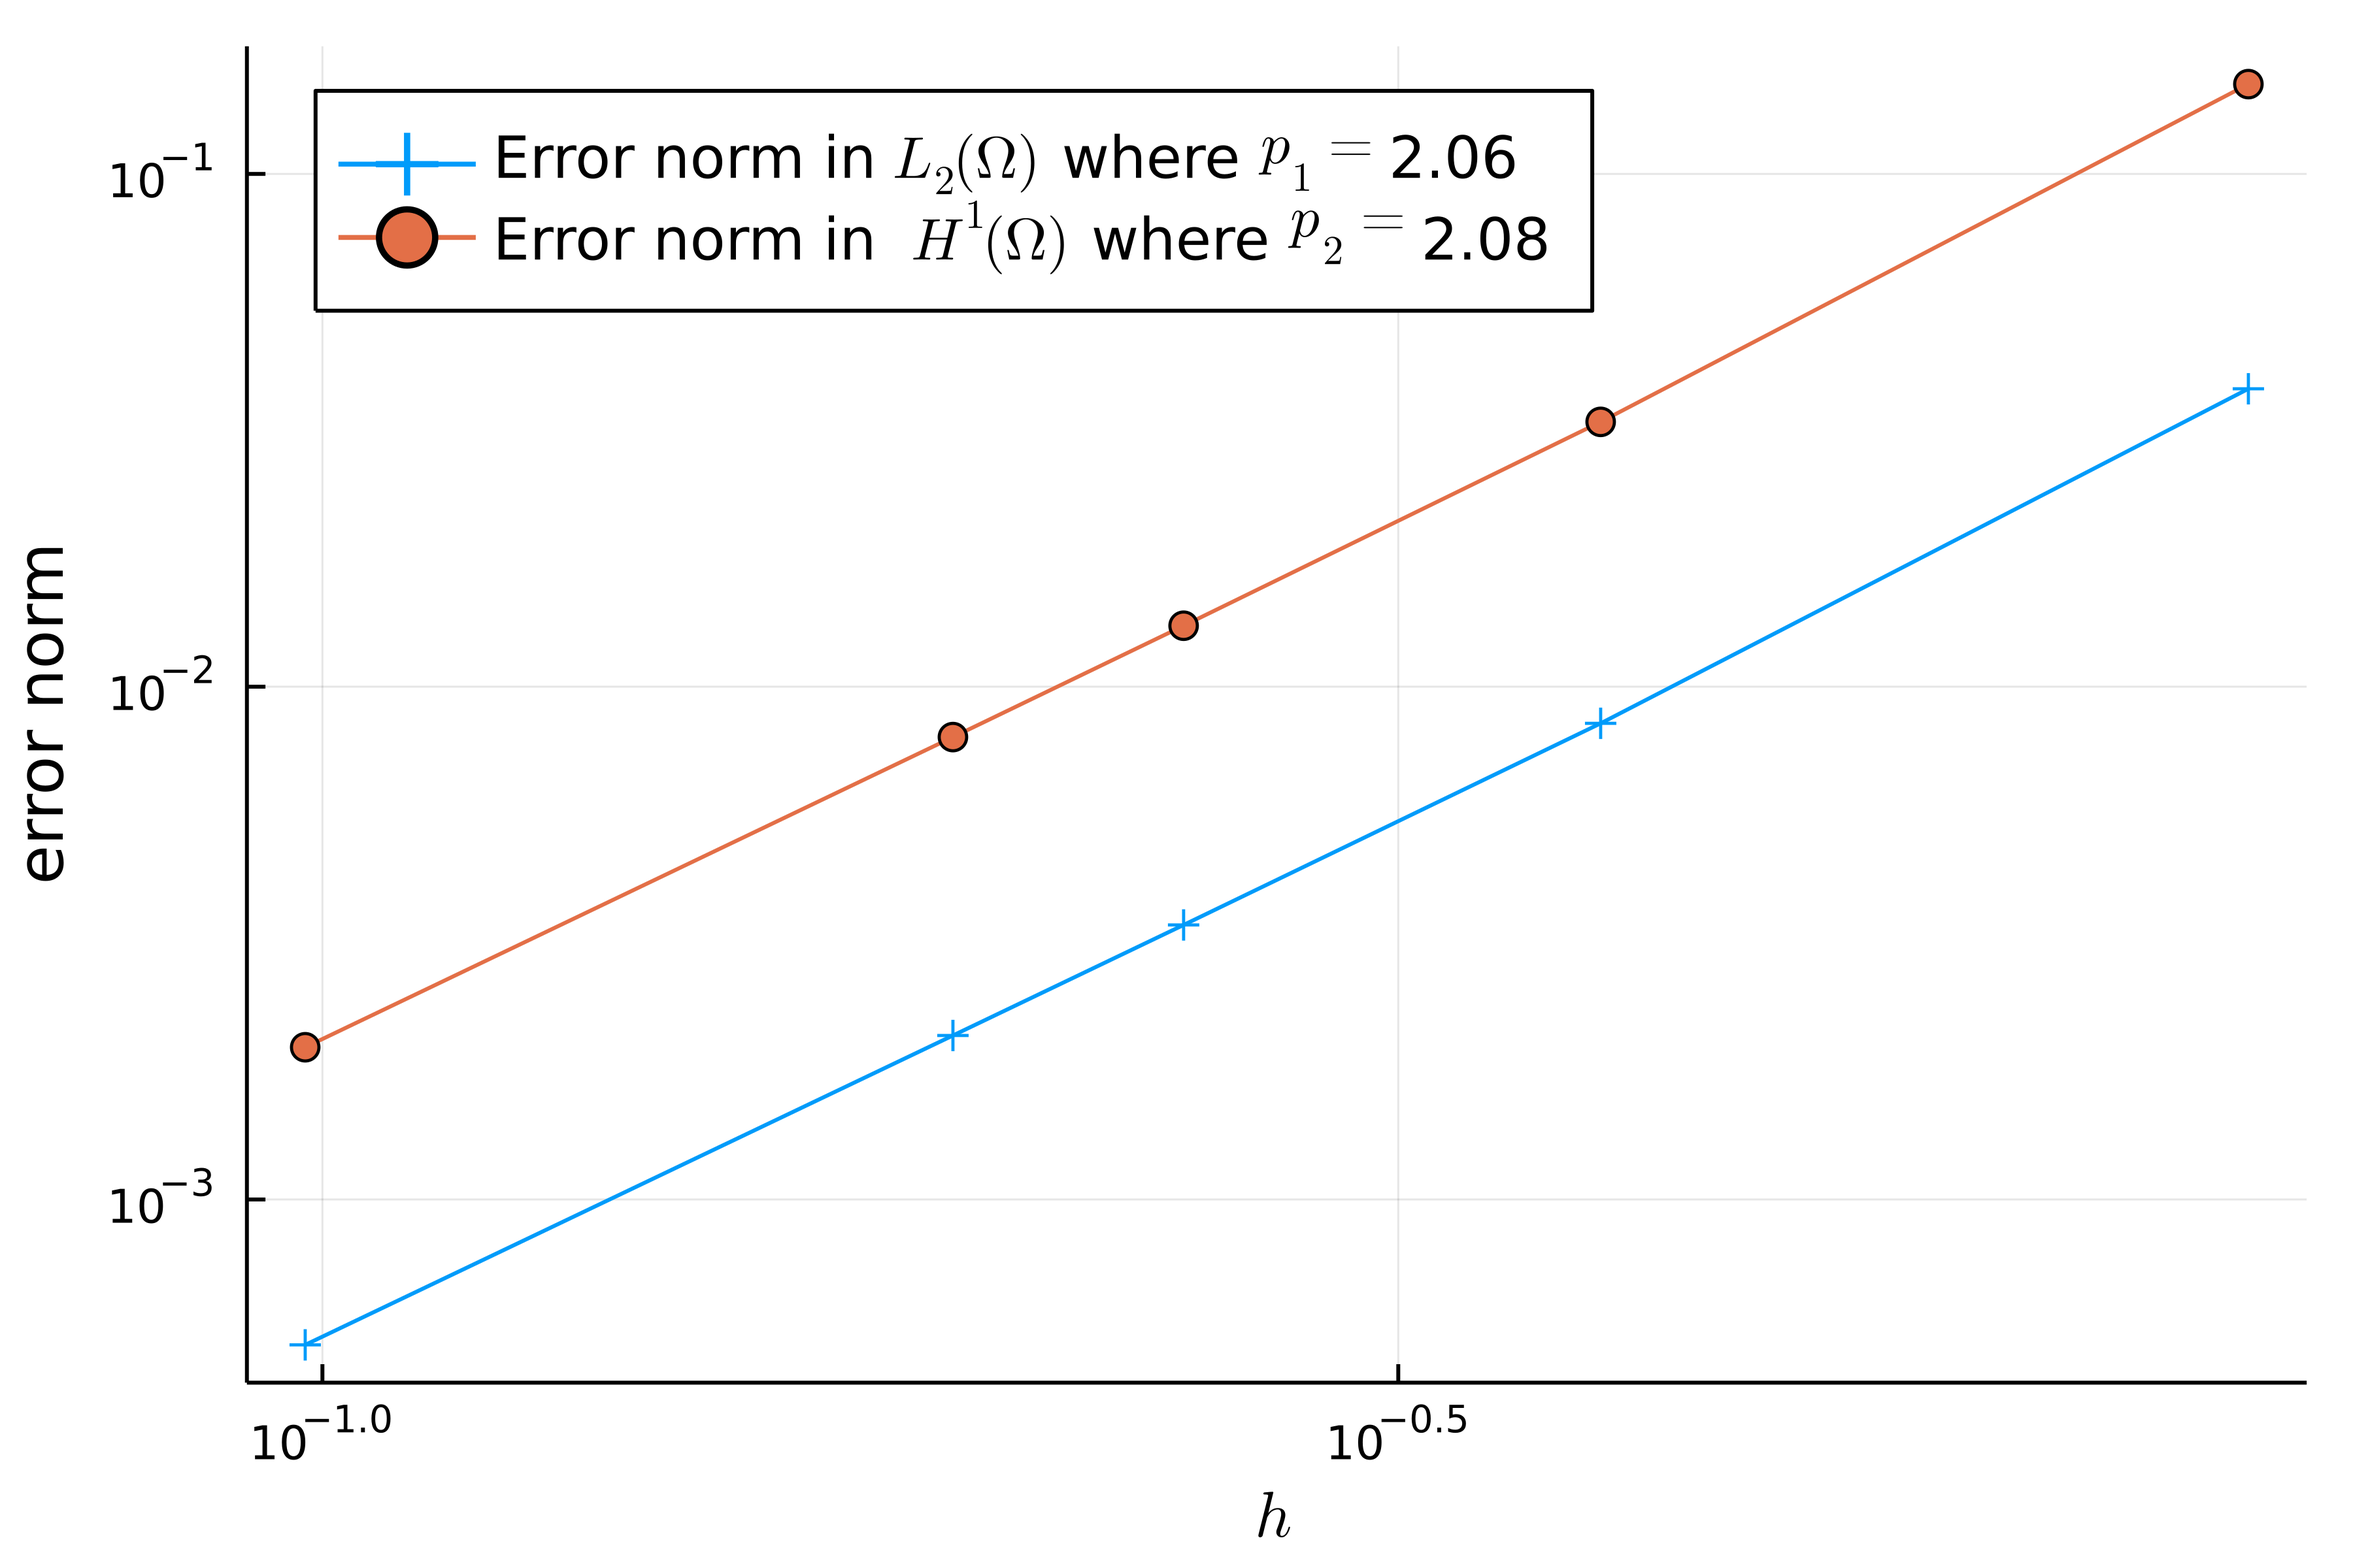
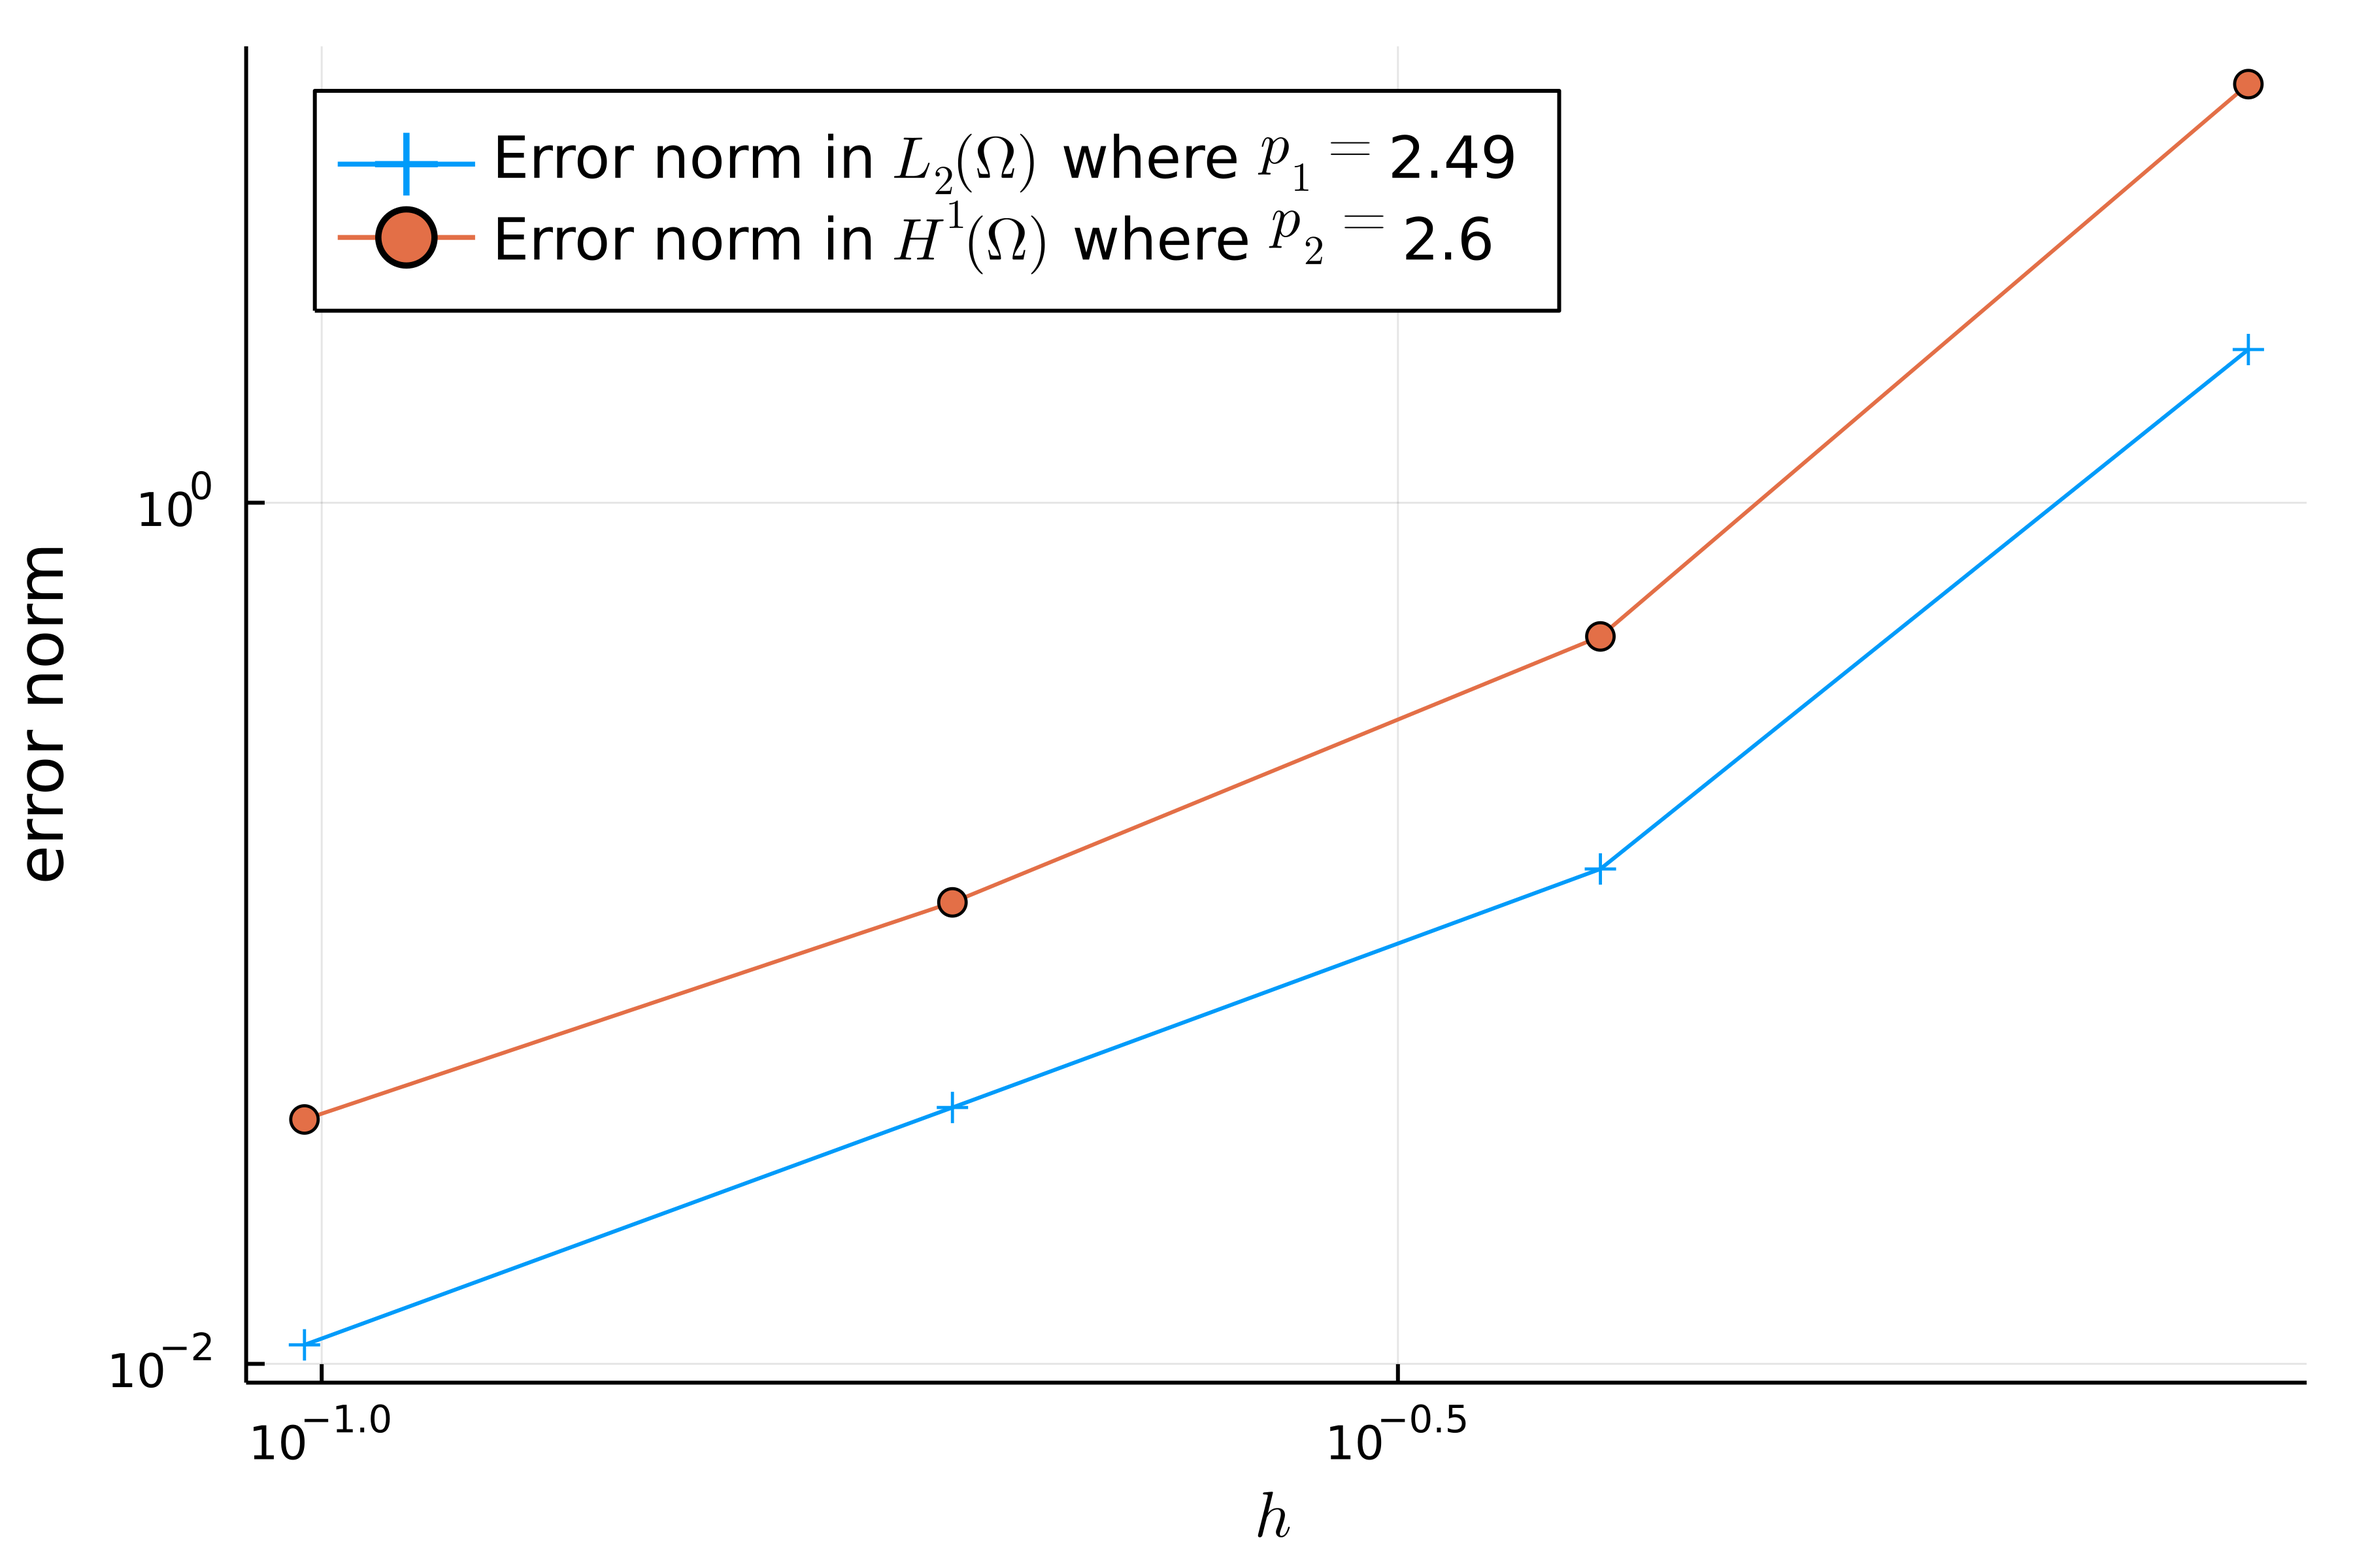
Added new texfile for numerical results

diff --git a/latex/numerical_results.tex b/latex/numerical_results.tex
@@ -1,0 +1,97 @@
+
+
+% Hey
+\newpage
+\section{Numerical Results}%
+\label{sec:numerical_results}
+
+We want to apply the well known method of manufactured solution to solve this problem.
+Let us consider the manufactured solution
+\begin{equation}
+    \label{eq:man_sol}
+u\left( x \right) = \cos(x_{1}) \cos \left( x_{2} \right) \quad \text{ on }   \Omega =  \left( 0,2 \pi  \right)^{2}
+.\end{equation}
+A visualization of \eqref{eq:man_sol} can be seen on figure \ref{fig:man_sol}.
+\begin{figure}[htpb]
+    \centering
+    \includegraphics[width=1.1\textwidth]{figures/manufactured_solution.png}
+    \caption{ A illustration of the manufactured solution \eqref{eq:man_sol} on $\Omega = (0, 2 \pi ) ^2$  }
+    \label{fig:man_sol}
+\end{figure}
+For all experiments carried out will we define $\alpha  = 1 $. We also choose the penalty parameter $ \gamma = 1$, even though the only requirement according to the results in subsection \ref{ssub:coercitivity} is that $\gamma \ge  \frac{1}{2}$. The
+numerical experiments was done on the mesh discretization illustrated in figure \ref{fig:mesh_discretization}.
+The FEM software package used in the implementation was gridap written in the Julia programming language \cite{verdugo22, julia17}.
+On the numerical experiments shown on figures \ref{fig:man_conv},  the error norms is shown numerically that there exists a $C > 0$ such
+that
+
+On the numerical experiments shown on figures \ref{fig:man_conv},  the error norms is shown numerically that there exists a $C > 0$ such
+that
+\[
+ \| u - u_{h} \|_{ L_{2}\left( \Omega  \right)  }^{  } \le  C  h^{p_{1}} \text{ and } \| u - h_{h} \|_{ H^{1}\left( \Omega  \right)  }  \le  C h^{p_{2}}.
+\]
+ We could see that for Lagrangian elements with $\mathcal{P}_{k} $ for $k = 2,3$ did the algorithm converge with $p_{1}, p_{2} \approx 2$ and for $k = 4$ was $p_{1} , p_{2} \approx 4$, which was expected.
+
+
+\begin{figure}
+\begin{minipage}{.4\linewidth}
+\centering
+\subfloat[]{\label{fig:mesh_discretization:a}\includegraphics[scale=.15]{figures/refinements/n10.png}}
+\end{minipage}%
+\begin{minipage}{.4\linewidth}
+\centering
+\subfloat[]{\label{fig:mesh_discretization:b}\includegraphics[scale=.15]{figures/refinements/n20.png}}
+\end{minipage}\par\medskip
+\centering
+\subfloat[]{\label{fig:mesh_discretization:c}\includegraphics[scale=.15]{figures/refinements/n40.png}}
+
+\caption{Illustration of mesh discretization on the unit square $\Omega = (0,2 \pi)^{2} \subseteq  \mathbb{R} ^{2}$
+    with triangulation $\mathcal{T} _{h}$. The chosen instances had the diameters $h = \left\{ 2\pi  /10, 2\pi /20,2\pi /40 \right\}$ in figures \ref{fig:mesh_discretization:a},
+    \ref{fig:mesh_discretization:b} and \ref{fig:mesh_discretization:c}.
+}
+
+\label{fig:mesh_discretization}
+\end{figure}
+
+
+\begin{figure}
+    \centering
+\begin{minipage}{.5\linewidth}
+\centering
+\subfloat[]{\label{fig:man_conv:a}\includegraphics[scale=.05]{figures/convergence/convergence_d_2.png}}
+\end{minipage}%
+\begin{minipage}{.5\linewidth}
+\centering
+\subfloat[]{\label{fig:man_conv:b}\includegraphics[scale=.05]{figures/convergence/convergence_d_3.png}}
+\end{minipage}\par\medskip
+\centering
+\subfloat[]{\label{fig:man_conv:c}\includegraphics[scale=.05]{figures/convergence/convergence_d_4.png}}
+
+
+\caption{ Convergence plots for $\| u - u_{h} \|_{ L_{2}\left( \Omega  \right)  }^{  } \le Ch^{p_{1}} $ and $\| u - u_{h} \|_{ H^{1}\left( \Omega  \right)   }^{  }\le Ch^{p_{2}} $  using Lagrangian elements with polynomials $\mathcal{P}_{k} $ with
+    order $k$ .
+    Figures \ref{fig:man_conv:a},
+\ref{fig:man_conv:b} and \ref{fig:man_conv:c} has respectively the order $k=2,3, 4$.  }
+\label{fig:man_conv}
+\end{figure}
+
+
+% \begin{figure}
+% \begin{center}
+% \begin{tabular}{|c|c|}
+% \toprule
+
+% \textbf{A} & \adjustimage{height=8cm,valign=m}{PlotA} \\
+% \midrule
+% \textbf{B} & \adjustimage{height=8cm,valign=m}{PlotB} \\
+% \midrule
+% \textbf{C} & \adjustimage{height=8cm,valign=m}{PlotC} \\
+
+% \bottomrule
+% \end{tabular}
+% \end{center}
+% \caption{I don't want a table: Andrew Cashner's way} \label{faketable:mul}
+
+% \end{figure}
+
+\input{figures/convergence/convergence_d_2.tex}
+

diff --git a/latex/CIP.tex b/latex/CIP.tex
@@ -435,78 +435,4 @@ Observe that we now have $ \| u_{h} - v_{h} \|_{ a_{h} }^{  }   \le \frac{\widet
 \]
 
 
-\newpage
-\section{Numerical Results}%
-\label{sec:numerical_results}
-
-We want to apply the well known method of manufactured solution to solve this problem.
-Let us consider the manufactured solution
-\begin{equation}
-    \label{eq:man_sol}
-u\left( x \right) = \cos(x_{1}) \cos \left( x_{2} \right) \quad \text{ on }   \Omega =  \left( 0,2 \pi  \right)^{2}
-.\end{equation}
-A visualization of \eqref{eq:man_sol} can be seen on figure \ref{fig:man_sol}.
-\begin{figure}[htpb]
-    \centering
-    \includegraphics[width=1.1\textwidth]{figures/manufactured_solution.png}
-    \caption{ A illustration of the manufactured solution \eqref{eq:man_sol} on $\Omega = (0, 2 \pi ) ^2$  }
-    \label{fig:man_sol}
-\end{figure}
-For all experiments carried out will we define $\alpha  = 1 $. We also choose the penalty parameter $ \gamma = 1$, even though the only requirement according to the results in subsection \ref{ssub:coercitivity} is that $\gamma \ge  \frac{1}{2}$. The
-numerical experiments was done on the mesh discretization illustrated in figure \ref{fig:mesh_discretization}.
-The FEM software package used in the implementation was gridap written in the Julia programming language \cite{verdugo22, julia17}.
-On the numerical experiments shown on figures \ref{fig:man_conv},  the error norms is shown numerically that there exists a $C > 0$ such
-that
-
-On the numerical experiments shown on figures \ref{fig:man_conv},  the error norms is shown numerically that there exists a $C > 0$ such
-that
-\[
- \| u - u_{h} \|_{ L_{2}\left( \Omega  \right)  }^{  } \le  C  h^{p_{1}} \text{ and } \| u - h_{h} \|_{ H^{1}\left( \Omega  \right)  }  \le  C h^{p_{2}}.
-\]
- We could see that for Lagrangian elements with $\mathcal{P}_{k} $ for $k = 2,3$ did the algorithm converge with $p_{1}, p_{2} \approx 2$ and for $k = 4$ was $p_{1} , p_{2} \approx 4$, which was expected.
-
-
-\begin{figure}
-\begin{minipage}{.4\linewidth}
-\centering
-\subfloat[]{\label{fig:mesh_discretization:a}\includegraphics[scale=.15]{figures/refinements/n10.png}}
-\end{minipage}%
-\begin{minipage}{.4\linewidth}
-\centering
-\subfloat[]{\label{fig:mesh_discretization:b}\includegraphics[scale=.15]{figures/refinements/n20.png}}
-\end{minipage}\par\medskip
-\centering
-\subfloat[]{\label{fig:mesh_discretization:c}\includegraphics[scale=.15]{figures/refinements/n40.png}}
-
-\caption{Illustration of mesh discretization on the unit square $\Omega = (0,2 \pi)^{2} \subseteq  \mathbb{R} ^{2}$
-    with triangulation $\mathcal{T} _{h}$. The chosen instances had the diameters $h = \left\{ 2\pi  /10, 2\pi /20,2\pi /40 \right\}$ in figures \ref{fig:mesh_discretization:a},
-    \ref{fig:mesh_discretization:b} and \ref{fig:mesh_discretization:c}.
-}
-
-\label{fig:mesh_discretization}
-\end{figure}
-
-
-\begin{figure}
-    \centering
-\begin{minipage}{.5\linewidth}
-\centering
-\subfloat[]{\label{fig:man_conv:a}\includegraphics[scale=.05]{figures/convergence/convergence_d_2.png}}
-\end{minipage}%
-\begin{minipage}{.5\linewidth}
-\centering
-\subfloat[]{\label{fig:man_conv:b}\includegraphics[scale=.05]{figures/convergence/convergence_d_3.png}}
-\end{minipage}\par\medskip
-\centering
-\subfloat[]{\label{fig:man_conv:c}\includegraphics[scale=.05]{figures/convergence/convergence_d_4.png}}
-
-
-\caption{ Convergence plots for $\| u - u_{h} \|_{ L_{2}\left( \Omega  \right)  }^{  } \le Ch^{p_{1}} $ and $\| u - u_{h} \|_{ H^{1}\left( \Omega  \right)   }^{  }\le Ch^{p_{2}} $  using Lagrangian elements with polynomials $\mathcal{P}_{k} $ with
-    order $k$ .
-    Figures \ref{fig:man_conv:a},
-\ref{fig:man_conv:b} and \ref{fig:man_conv:c} has respectively the order $k=2,3, 4$.  }
-\label{fig:man_conv}
-\end{figure}
-
-
 

diff --git a/latex/figures/convergence/convergence_d_2.tex b/latex/figures/convergence/convergence_d_2.tex
@@ -1,0 +1,10 @@
+\begin{table}
+  \begin{tabular}{rrrrr}
+    \hline\hline
+    \textbf{h} & \textbf{$L_2$} & \textbf{$H^1$} & \textbf{$log_2(e^{2h}_{L^2(\Omega )}/e^{h}_{L^2(\Omega )}) $} & \textbf{$log_2(e^{2h}_{H_1(\Omega )}/e^{h}_{H_1(\Omega )}) $} \\\hline
+    7.854E-01 & 9.380E+00 & 2.269E+00 &  &  \\
+    3.927E-01 & 4.891E-01 & 1.410E-01 & -2.954E+00 & -2.778E+00 \\
+    1.963E-01 & 1.180E-01 & 3.939E-02 & -1.422E+00 & -1.276E+00 \\
+    9.817E-02 & 3.695E-02 & 1.107E-02 & -1.161E+00 & -1.269E+00 \\\hline\hline
+  \end{tabular}
+\end{table}

diff --git a/latex/figures/convergence/convergence_d_3.tex b/latex/figures/convergence/convergence_d_3.tex
@@ -1,0 +1,10 @@
+\begin{table}
+  \begin{tabular}{rrrrr}
+    \hline\hline
+    \textbf{h} & \textbf{$L_2$} & \textbf{$H^1$} & \textbf{$log_2(e^{2h}_{L^2(\Omega )}/e^{h}_{L^2(\Omega )}) $} & \textbf{$log_2(e^{2h}_{H_1(\Omega )}/e^{h}_{H_1(\Omega )}) $} \\\hline
+    7.854E-01 & 1.853E+00 & 4.026E-01 &  &  \\
+    3.927E-01 & 4.209E-01 & 8.242E-02 & -1.482E+00 & -1.586E+00 \\
+    1.963E-01 & 5.885E-02 & 1.005E-02 & -1.967E+00 & -2.104E+00 \\
+    9.817E-02 & 1.287E-02 & 1.493E-03 & -1.520E+00 & -1.907E+00 \\\hline\hline
+  \end{tabular}
+\end{table}

diff --git a/latex/figures/convergence/convergence_d_4.tex b/latex/figures/convergence/convergence_d_4.tex
@@ -1,0 +1,10 @@
+\begin{table}
+  \begin{tabular}{rrrrr}
+    \hline\hline
+    \textbf{h} & \textbf{$L_2$} & \textbf{$H^1$} & \textbf{$log_2(e^{2h}_{L^2(\Omega )}/e^{h}_{L^2(\Omega )}) $} & \textbf{$log_2(e^{2h}_{H_1(\Omega )}/e^{h}_{H_1(\Omega )}) $} \\\hline
+    7.854E-01 & 7.338E-01 & 1.396E-01 &  &  \\
+    3.927E-01 & 1.814E-01 & 2.441E-02 & -1.397E+00 & -1.744E+00 \\
+    1.963E-01 & 3.539E-03 & 4.351E-04 & -3.937E+00 & -4.027E+00 \\
+    9.817E-02 & 2.350E-04 & 1.909E-05 & -2.712E+00 & -3.126E+00 \\\hline\hline
+  \end{tabular}
+\end{table}

diff --git a/latex/main.tex b/latex/main.tex
@@ -31,6 +31,7 @@
     \input{introduction}
     \input{biharmonic-equation}
     \input{CIP}
+    \input{numerical_results}
     \input{cahn-hilliard}
     \input{appendix}
 
